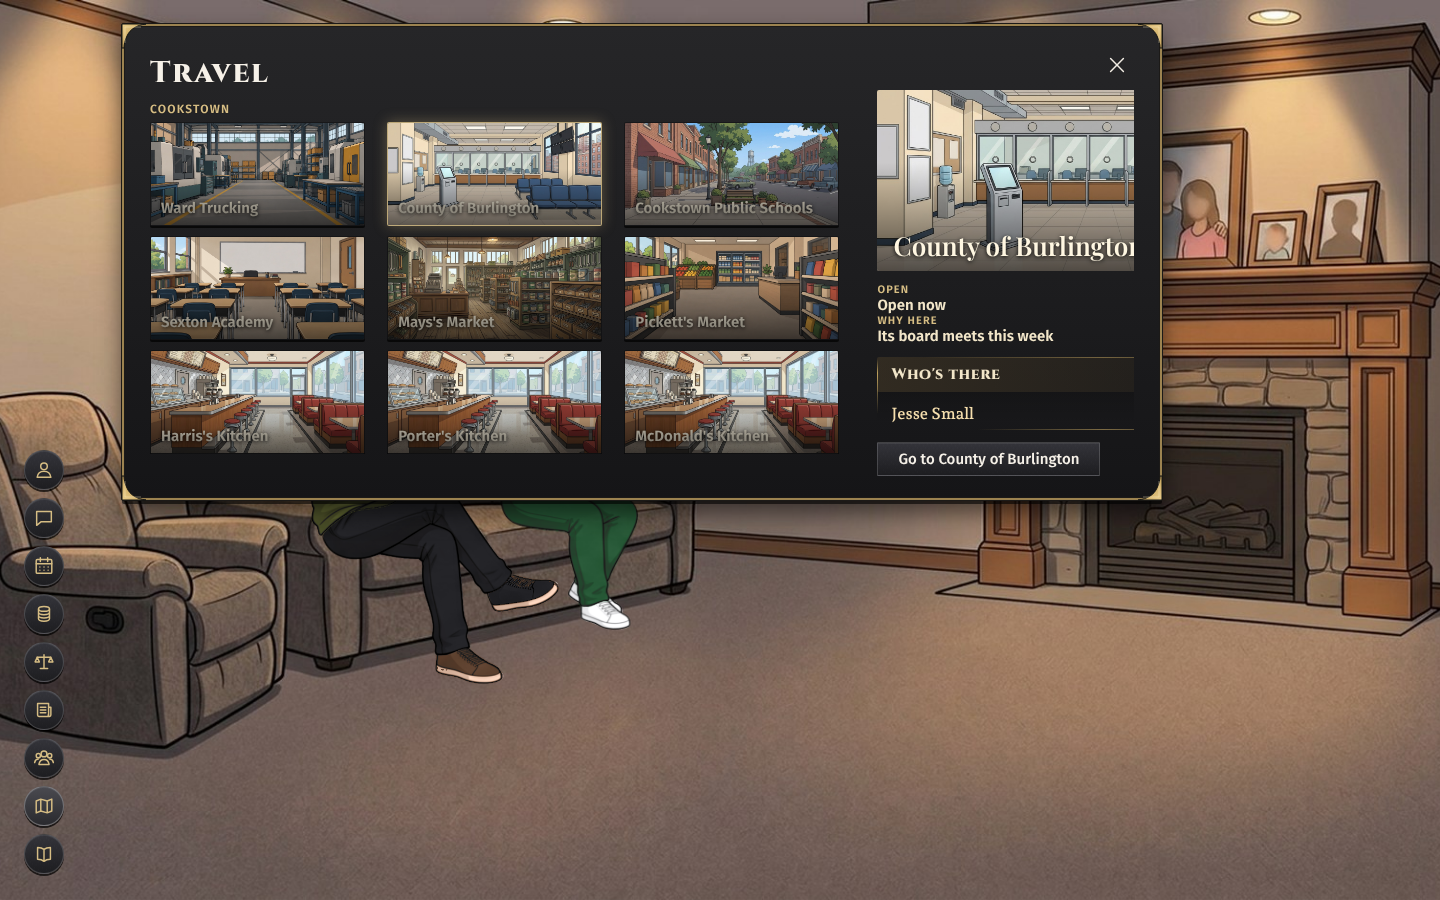
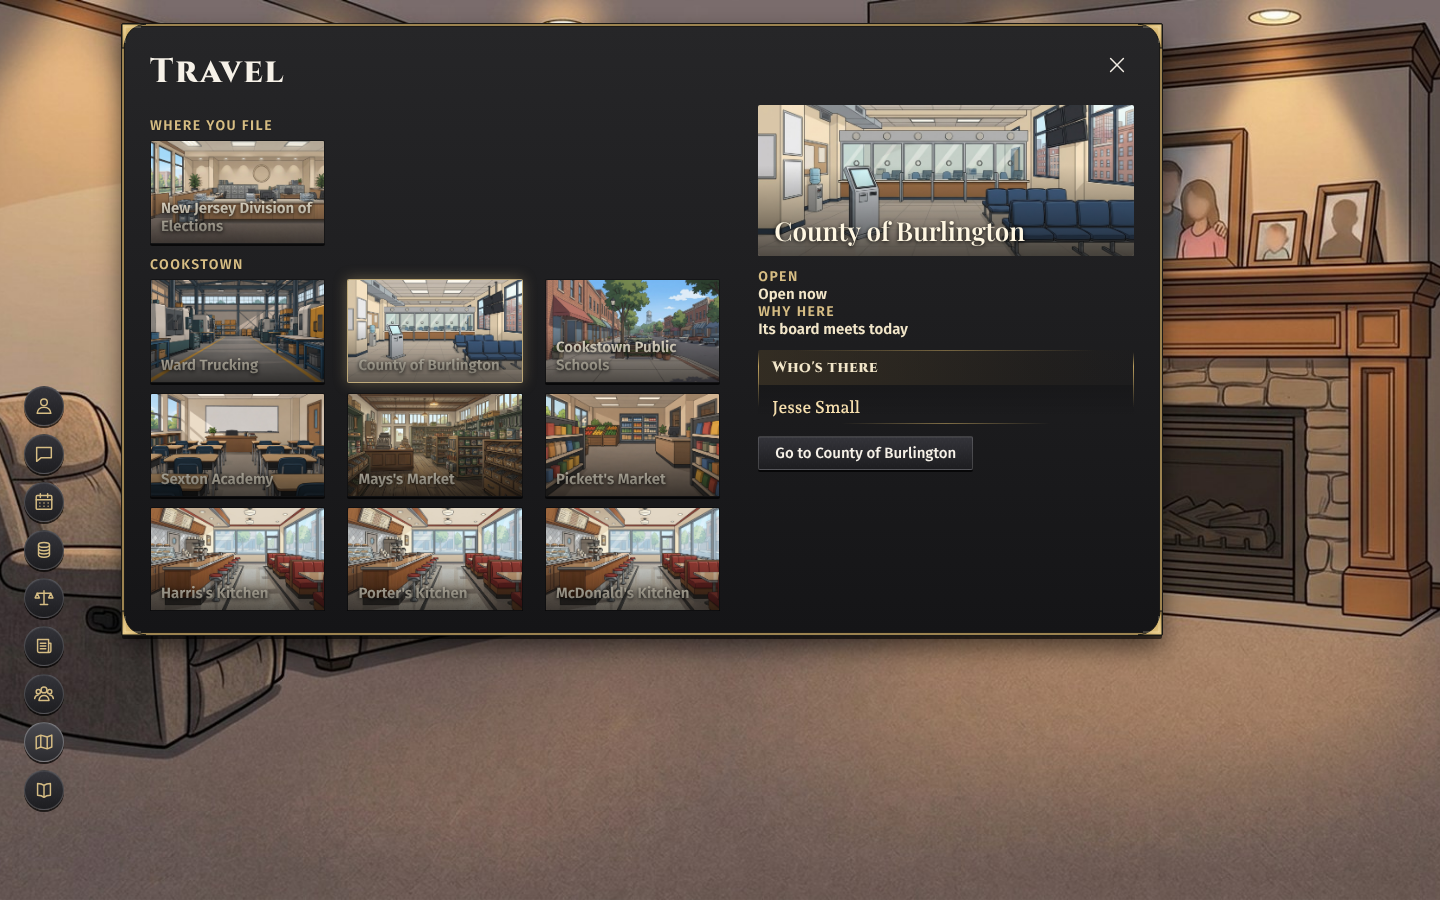
Travel lists the town office on the day its board meets, not all week
Claude-Session: https://claude.ai/code/session_01S4WSHsnvuxXM4YiPxR8XyL

diff --git a/src/bench/travel-civic.test.ts b/src/bench/travel-civic.test.ts
@@ -2,7 +2,7 @@
  * Travel lists where the player has political business
  * (play-travel-in-a-village-lists-no-town-office), in played worlds: the
  * town's (or county's) office is listed with the seat reason for a player who
- * holds a seat on its body, and for anyone else only in a week its body
+ * holds a seat on its body, and for anyone else only on the day its body
  * meets, with the meeting reason; on other days it stays out, as an office
  * listed only for being an office does (owner, Oct 26).
  */
@@ -25,7 +25,7 @@ const DRAWS = 8;
 const LOCAL = new Set(["city", "town", "village", "township", "borough"]);
 
 describe(`Travel and political business (seed ${seed})`, () => {
-  it("lists the town office for a seat holder and in a meeting week, with the reason", () => {
+  it("lists the town office for a seat holder and on the day its body meets, with the reason", () => {
     setBookkeeping(false);
     const proved: string[] = [];
     for (let at = 0; at < DRAWS && proved.length < PLACES; at += 1) {
@@ -72,30 +72,28 @@ describe(`Travel and political business (seed ${seed})`, () => {
           ? (Date.parse(next.date) - Date.parse(core.date)) / 86400000
           : Infinity;
       };
-      if (meetingIn() <= 7) {
-        // Step past this week's meeting first, to see it out.
-        advanceCore(core, addDays(makeIsoDate(core.date), 8));
-      }
-      if (meetingIn() > 7)
-        expect(
-          officeCard(resident)?.reasons.some((r) => r.kind === "meeting") ??
-            false,
-          `${where}: not listed for a meeting more than a week off`,
-        ).toBe(false);
+      const listed = () =>
+        officeCard(resident)?.reasons.some((r) => r.kind === "meeting") ??
+        false;
+      // On a day the body does not meet, a resident does not see its office.
+      if (meetingIn() > 0)
+        expect(listed(), `${where}: not listed on a day with no meeting`).toBe(
+          false,
+        );
       let steps = 0;
-      while (meetingIn() > 7 && steps < 60) {
+      while (meetingIn() > 0 && steps < 60) {
         advanceCore(core, addDays(makeIsoDate(core.date), 1));
         steps += 1;
       }
-      if (meetingIn() > 7) continue;
+      if (meetingIn() > 0) continue;
       const card = officeCard(resident);
-      expect(card, `${where}: listed in the meeting week`).toBeTruthy();
+      expect(card, `${where}: listed on the meeting day`).toBeTruthy();
       expect(
         card!.reasons.some((r) => r.kind === "meeting"),
         `${where}: with the meeting reason`,
       ).toBe(true);
       console.log(
-        `travel-civic: ${where}: ${office.name} for seat ${council.seat.id}; meeting week on ${core.date}`,
+        `travel-civic: ${where}: ${office.name} for seat ${council.seat.id}; meeting day ${core.date}`,
       );
       proved.push(where);
     }

diff --git a/src/bench/places.ts b/src/bench/places.ts
@@ -5,7 +5,6 @@ import { ageOnDate } from "../core2/kernel/dates";
 import { coreAPI, fillInPerson } from "../core2/state";
 import { OFFICES_MODULE_ID, townSeats } from "../core2/modules/offices";
 import { upcomingMeeting } from "../core2/modules/office-day";
-import { addDays, makeIsoDate } from "../core2/kernel/dates";
 import { workSpansOnDateV1 } from "../core2/work-spans-v1";
 import { properName } from "../director/words";
 import { backdropStaging } from "./staging";
@@ -69,8 +68,6 @@ const SCHOOL_AGE_UNDER = 19;
  * organization with a picture (owner, Oct 13: "Why would you need to visit
  * the market?").
  */
-/** The days ahead a body's meeting counts as this week (the Government screen's own window). */
-const MEETING_WEEK_DAYS = 7;
 /** The levels of a body that meets at its town's or county's own office. */
 const LOCAL_BODIES = new Set([
   "city",
@@ -87,14 +84,13 @@ const LOCAL_BODIES = new Set([
  * the same name, and may sit in the town's own jurisdiction rather than the
  * census place the player lives in, as a New England town does), each with
  * the record that is the reason: the seat they hold on its body, or the
- * body's meeting this week.
+ * body's meeting today.
  */
 function civicBusiness(
   core: CoreState,
   playerId: string,
 ): Map<string, { kind: "seat" | "meeting"; recordId: string }> {
   const api = coreAPI(core);
-  const through = addDays(makeIsoDate(core.date), MEETING_WEEK_DAYS);
   const business = new Map<
     string,
     { kind: "seat" | "meeting"; recordId: string }
@@ -108,7 +104,7 @@ function civicBusiness(
     }
     if (business.has(government)) continue;
     const meeting = office.seats > 1 ? upcomingMeeting(api, office.id) : null;
-    if (meeting && meeting.date <= through)
+    if (meeting && meeting.date === core.date)
       business.set(government, {
         kind: "meeting",
         recordId: `${office.id}:${meeting.date}`,
@@ -153,7 +149,7 @@ export function townPlaces(
   });
   // Where the player has political business by the records
   // (play-travel-in-a-village-lists-no-town-office): the town's or county's
-  // office, while they hold a seat on its body or its body meets this week.
+  // office, while they hold a seat on its body or its body meets today.
   // An office listed only for being an office stays out (owner, Oct 26).
   const civic = civicBusiness(core, playerId);
   const official = coreAPI(core)

diff --git a/docs/play-first/shots/play-travel-in-a-village-lists-no-town-office/README.md b/docs/play-first/shots/play-travel-in-a-village-lists-no-town-office/README.md
@@ -3,4 +3,4 @@
 At 1440 by 900, by `src/bench/travel-why.browser.mjs` on the bench at this branch's head. Cookstown, New Jersey (drawn), seed `d4c8d8d9-54c9-49fc-85ec-8086d06f9ade`.
 
 - `drawn/travel-why.png`: the first card's detail with its "Why here" line.
-- `drawn/town-office.png`: the County of Burlington's office listed, "Why here: Its board meets this week".
+- `drawn/town-office.png`: the County of Burlington's office listed, "Why here: Its board meets today" (on the day the board meets; the earlier picture, in the first commit of this pull request, said "this week").
